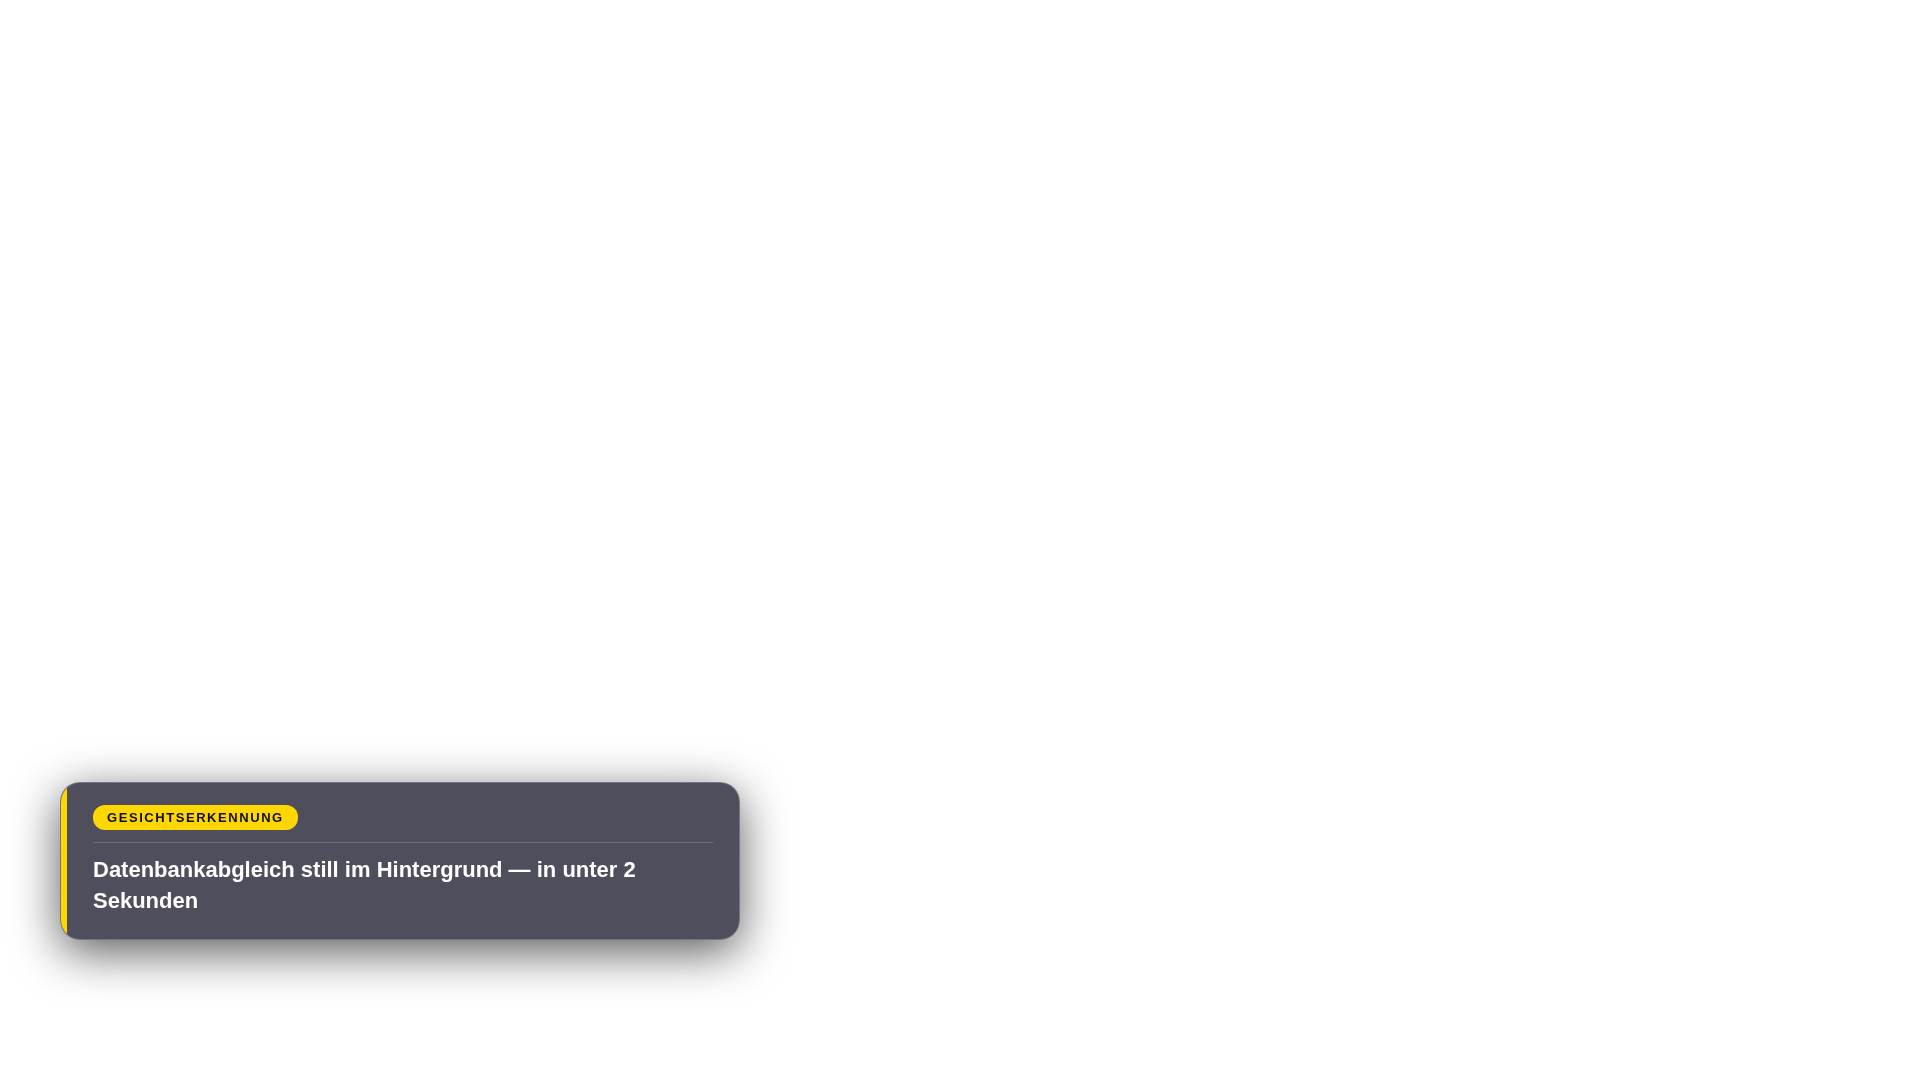
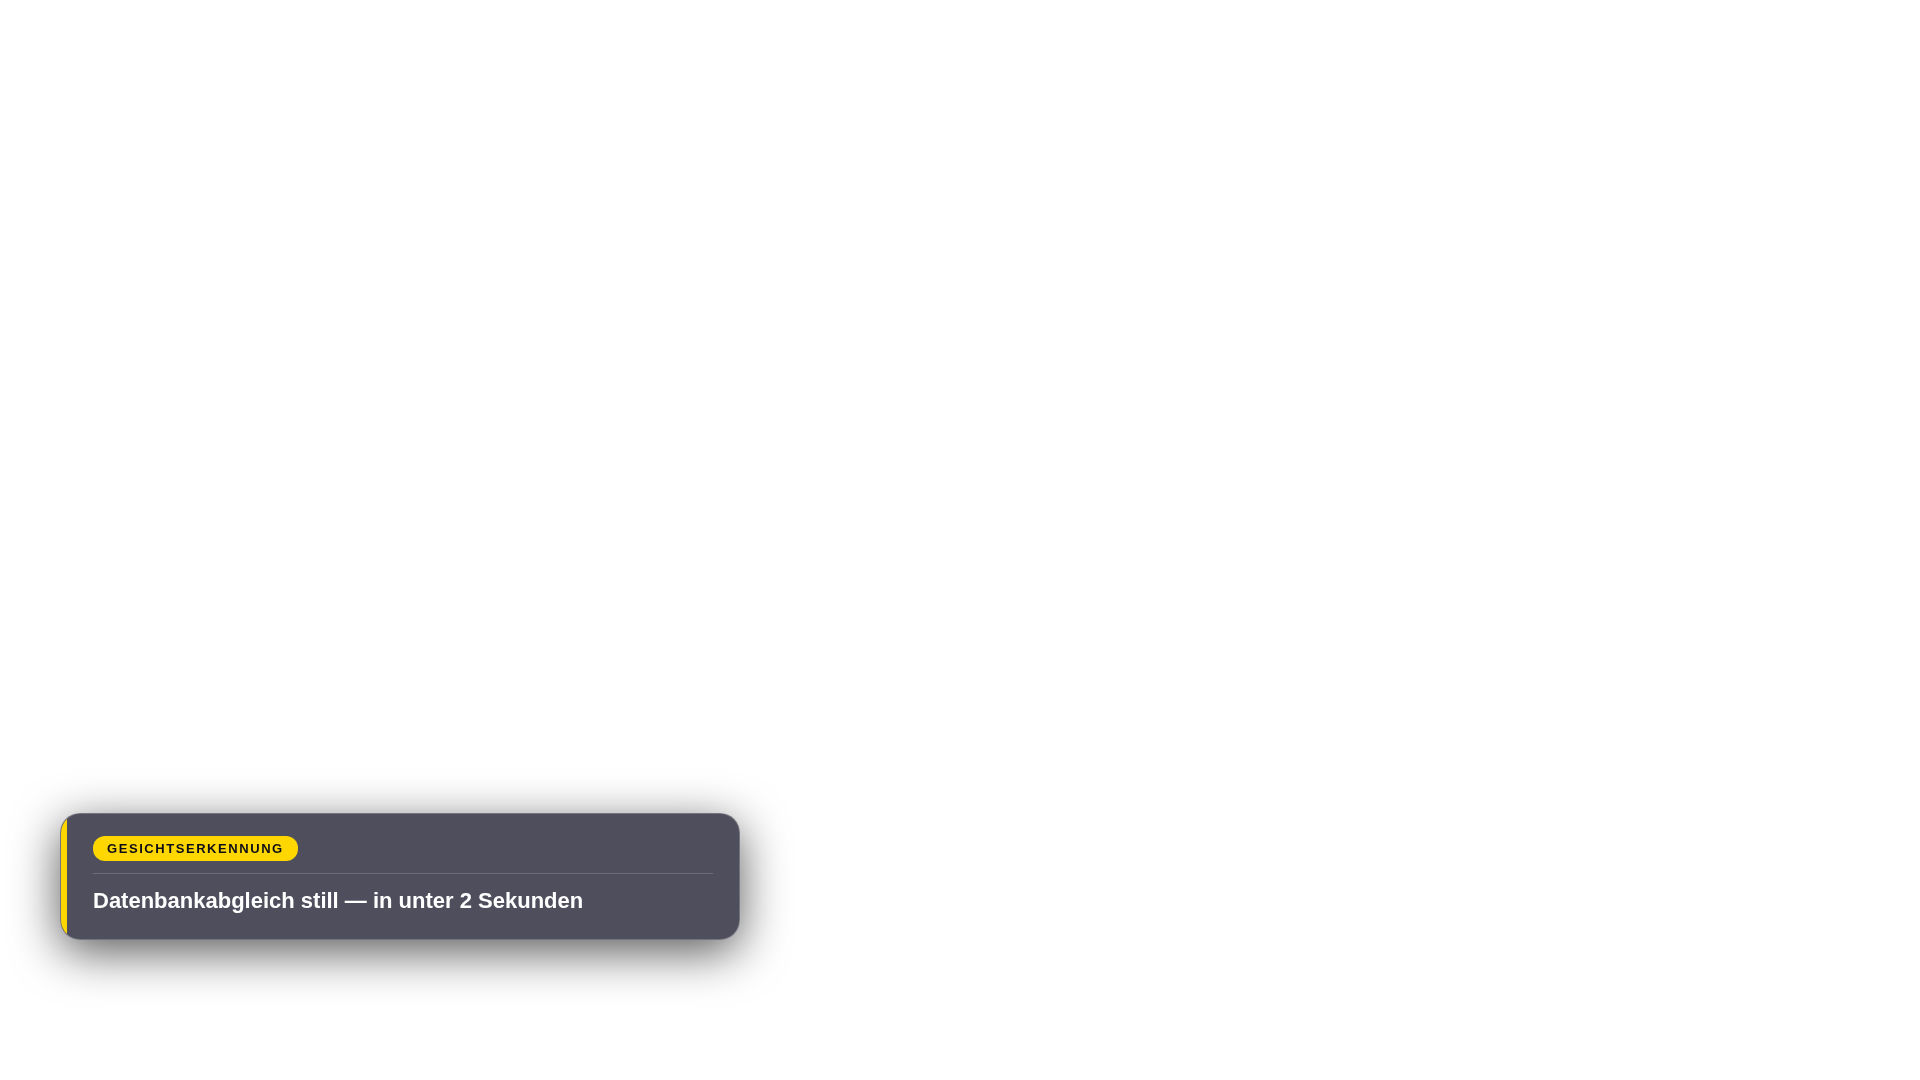
feat(scanner-de): fix card overlaps, 3-word captions, font 32→34pt
- Stagger all 11 card timings so only one card on screen at a time
- words_per_line=3 (~4-6 actual words visible per caption group)
- hf_style.py font size 32→34pt (shared, applies to all projects)

https://claude.ai/code/session_01YVKjxmuvXQCEjxJCiHuiUD

Changed region(s): [[0.0, 0.7028, 0.4062, 0.8556]]

diff --git a/packages/shared/hf_style.py b/packages/shared/hf_style.py
@@ -24,8 +24,8 @@ Caption spec:
 #         ScaleX, ScaleY, Spacing, Angle, BorderStyle, Outline, Shadow,
 #         Alignment, MarginL, MarginR, MarginV, Encoding
 ASS_STYLES = """\
-Style: Default,Montserrat,32,&H00FFFFFF,&H000000FF,&H00000000,&H00000000,-1,0,0,0,100,100,0,0,1,1.5,0,2,30,30,60,1
-Style: Highlight,Montserrat,32,&H0000D7FF,&H000000FF,&H00000000,&H00000000,-1,0,0,0,100,100,0,0,1,1.5,0,2,30,30,60,1"""
+Style: Default,Montserrat,34,&H00FFFFFF,&H000000FF,&H00000000,&H00000000,-1,0,0,0,100,100,0,0,1,1.5,0,2,30,30,60,1
+Style: Highlight,Montserrat,34,&H0000D7FF,&H000000FF,&H00000000,&H00000000,-1,0,0,0,100,100,0,0,1,1.5,0,2,30,30,60,1"""
 
 ASS_HEADER_TEMPLATE = """\
 [Script Info]

diff --git a/projects/scanner-de/build-video.py b/projects/scanner-de/build-video.py
@@ -64,7 +64,7 @@ print(f"Output : {DURATION:.1f}s  (video padded +{PAD_DUR:.1f}s frozen)")
 # ── Captions ──────────────────────────────────────────────────────────────────
 from hf_style import build_ass
 words = json.loads(WORDS_JSON.read_text(encoding="utf-8"))
-ass_content = build_ass(words, width=WIDTH, height=HEIGHT)
+ass_content = build_ass(words, width=WIDTH, height=HEIGHT, words_per_line=3)
 ass_path = HERE / "output" / "captions.ass"
 ass_path.write_text(ass_content, encoding="utf-8")
 print(f"Captions: {len(words)} words → {ass_path.name}")
